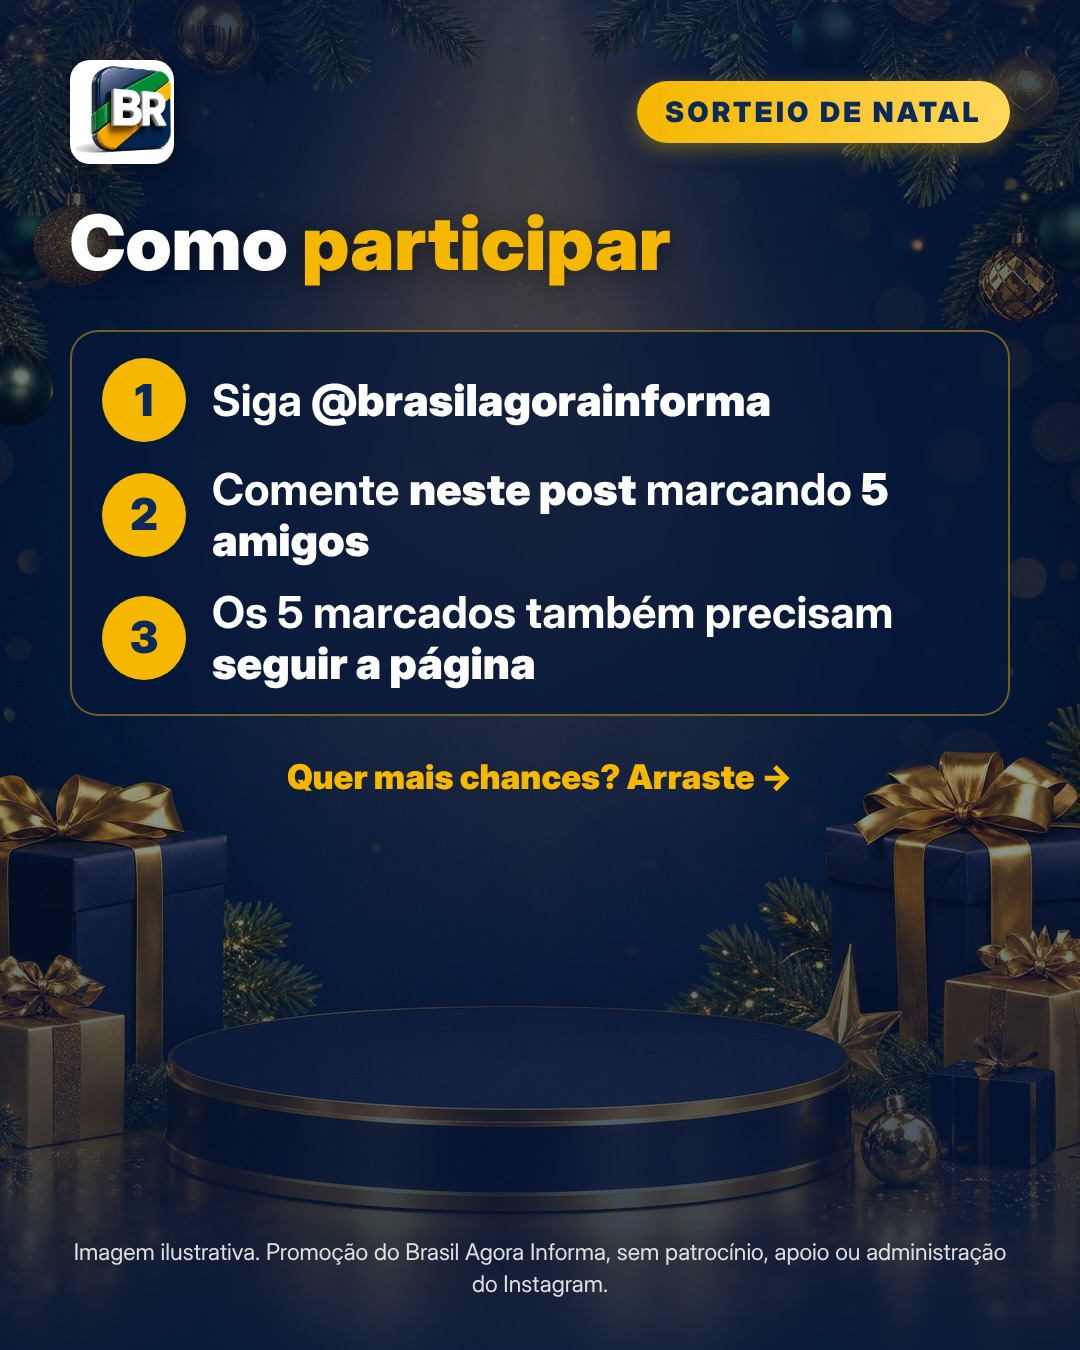
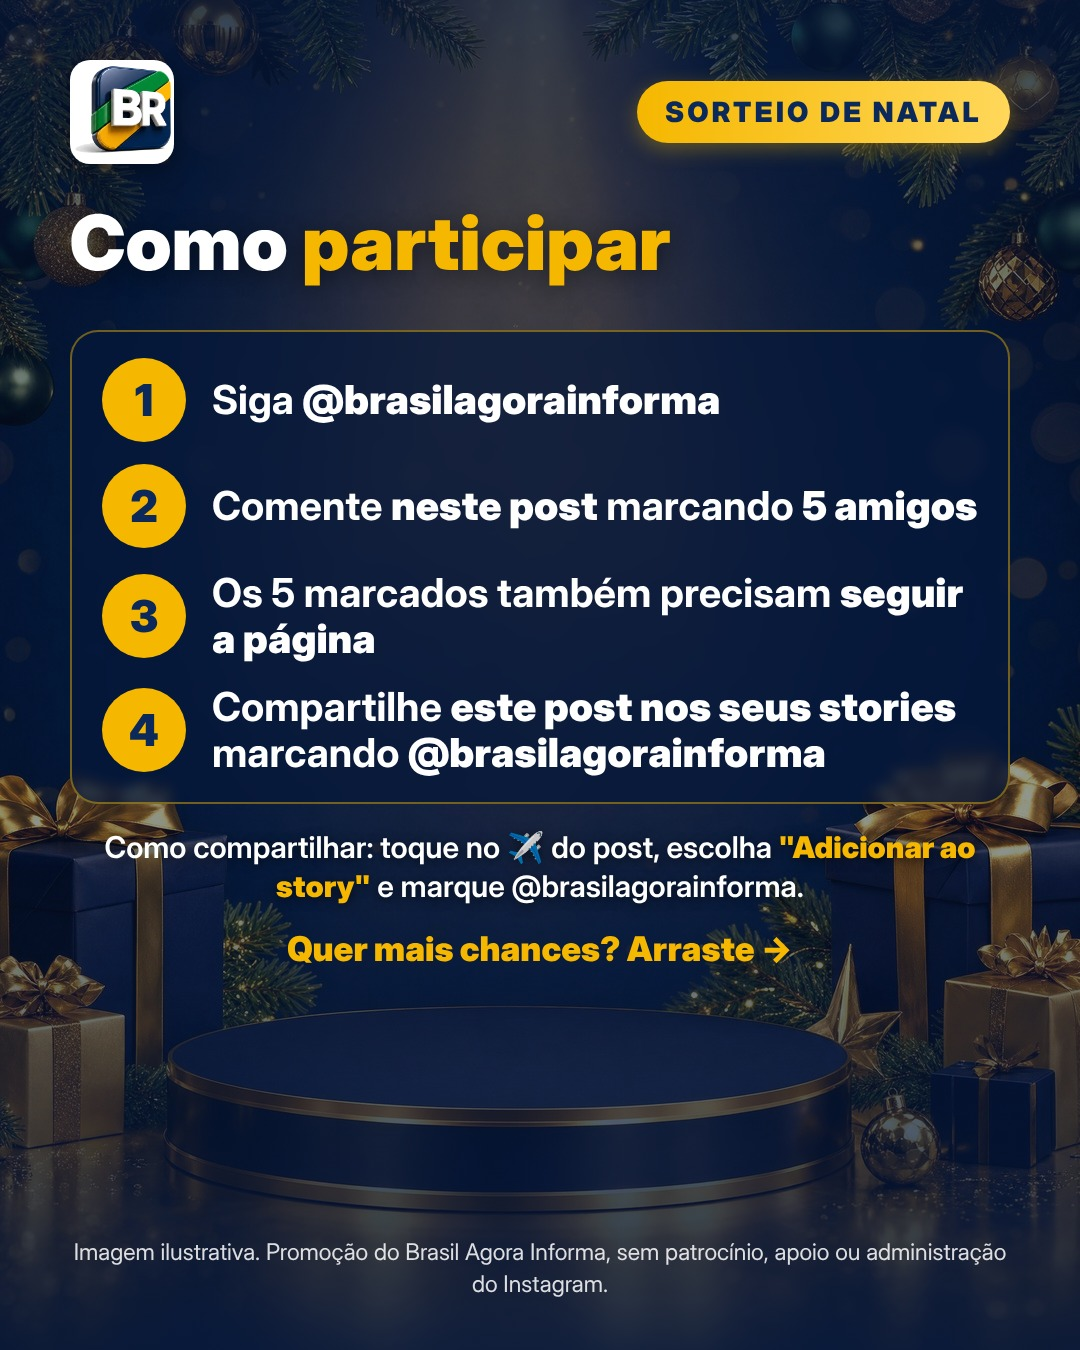
Sorteio: passo 4 (compartilhar nos stories) no regulamento e no carrossel
Claude-Session: https://claude.ai/code/session_0182ehLtReBftEm9wBhAEYUi

Changed region(s): [[0.0611, 0.3422, 0.9472, 0.7156], [0.1833, 0.28, 0.7333, 0.3111]]

diff --git a/sorteio.html b/sorteio.html
@@ -42,11 +42,11 @@
           <li><b>Quem organiza:</b> o perfil Brasil Agora Informa (@brasilagorainforma). Contato só pela mensagem direta do perfil.</li>
           <li><b>Período:</b> de 28 de novembro de 2026 até 29 de dezembro de 2026, às 23h59 (horário de Brasília).</li>
           <li><b>Quem pode participar:</b> pessoas com 18 anos ou mais, que morem no Brasil e tenham perfil no Instagram. Participar é grátis: não é preciso comprar nada.</li>
-          <li><b>Como participar:</b> (1) seguir o perfil @brasilagorainforma; (2) comentar no post oficial do sorteio (fixado no perfil) marcando 5 perfis reais de amigos; (3) os 5 perfis marcados também precisam seguir @brasilagorainforma até o dia do sorteio.</li>
+          <li><b>Como participar:</b> (1) seguir o perfil @brasilagorainforma; (2) comentar no post oficial do sorteio (fixado no perfil) marcando 5 perfis reais de amigos; (3) os 5 perfis marcados também precisam seguir @brasilagorainforma até o dia do sorteio; (4) compartilhar o post oficial do sorteio nos seus stories, marcando @brasilagorainforma, ao menos uma vez durante o período. Como fazer: no post, toque no ícone de avião de papel, escolha "Adicionar ao story" e marque @brasilagorainforma antes de publicar. A participação é feita só pelo Instagram.</li>
           <li><b>Pode participar várias vezes:</b> a mesma pessoa pode comentar quantas vezes quiser. Cada comentário vale uma participação, desde que marque 5 perfis diferentes dos marcados nos outros comentários dela, e que esses perfis também sigam @brasilagorainforma. Não valem perfis falsos, perfis de marcas, perfis criados só para o sorteio nem a mesma pessoa marcada mais de uma vez.</li>
           <li><b>Prêmio:</b> 1 (um) iPhone 17, modelo de entrada, novo, lacrado e com nota fiscal. O prêmio não pode ser trocado por dinheiro.</li>
           <li><b>Sorteio:</b> em 30 de dezembro de 2026. A lista numerada dos comentários válidos é montada ao fim do prazo, e o número vencedor é sorteado no site público random.org. Todo o sorteio e a conferência são gravados em vídeo e publicados no perfil no mesmo dia.</li>
-          <li><b>Conferência:</b> o autor do comentário sorteado precisa cumprir todas as regras no momento do sorteio (seguir o perfil, comentário válido e os 5 marcados nele seguindo). Se faltar alguma, um novo número é sorteado, também na gravação.</li>
+          <li><b>Conferência:</b> o autor do comentário sorteado precisa cumprir todas as regras no momento do sorteio (seguir o perfil, comentário válido, os 5 marcados nele seguindo e o compartilhamento nos stories). Como o story some em 24 horas e perfis fechados não aparecem para nós, o compartilhamento é conferido só no sorteado: pela menção recebida no perfil ou, se ela não aparecer, por um print do story enviado na mensagem direta. Se faltar alguma, um novo número é sorteado, também na gravação.</li>
           <li><b>Aviso ao vencedor:</b> pela mensagem direta do @brasilagorainforma. O vencedor tem 24 horas para responder; sem resposta, um novo número é sorteado. Nunca pedimos senha, código, pagamento, Pix ou dados bancários. Desconfie de perfis parecidos com o nosso.</li>
           <li><b>Entrega:</b> o iPhone é enviado até 31 de dezembro de 2026 por transportadora ou Correios, com código de rastreio e sem custo para o vencedor. O prazo de chegada depende do endereço.</li>
           <li><b>Dados pessoais:</b> nome, documento e endereço do vencedor são usados só para conferir a idade e entregar o prêmio, conforme a Lei Geral de Proteção de Dados. O nome do perfil do vencedor é divulgado no resultado.</li>
